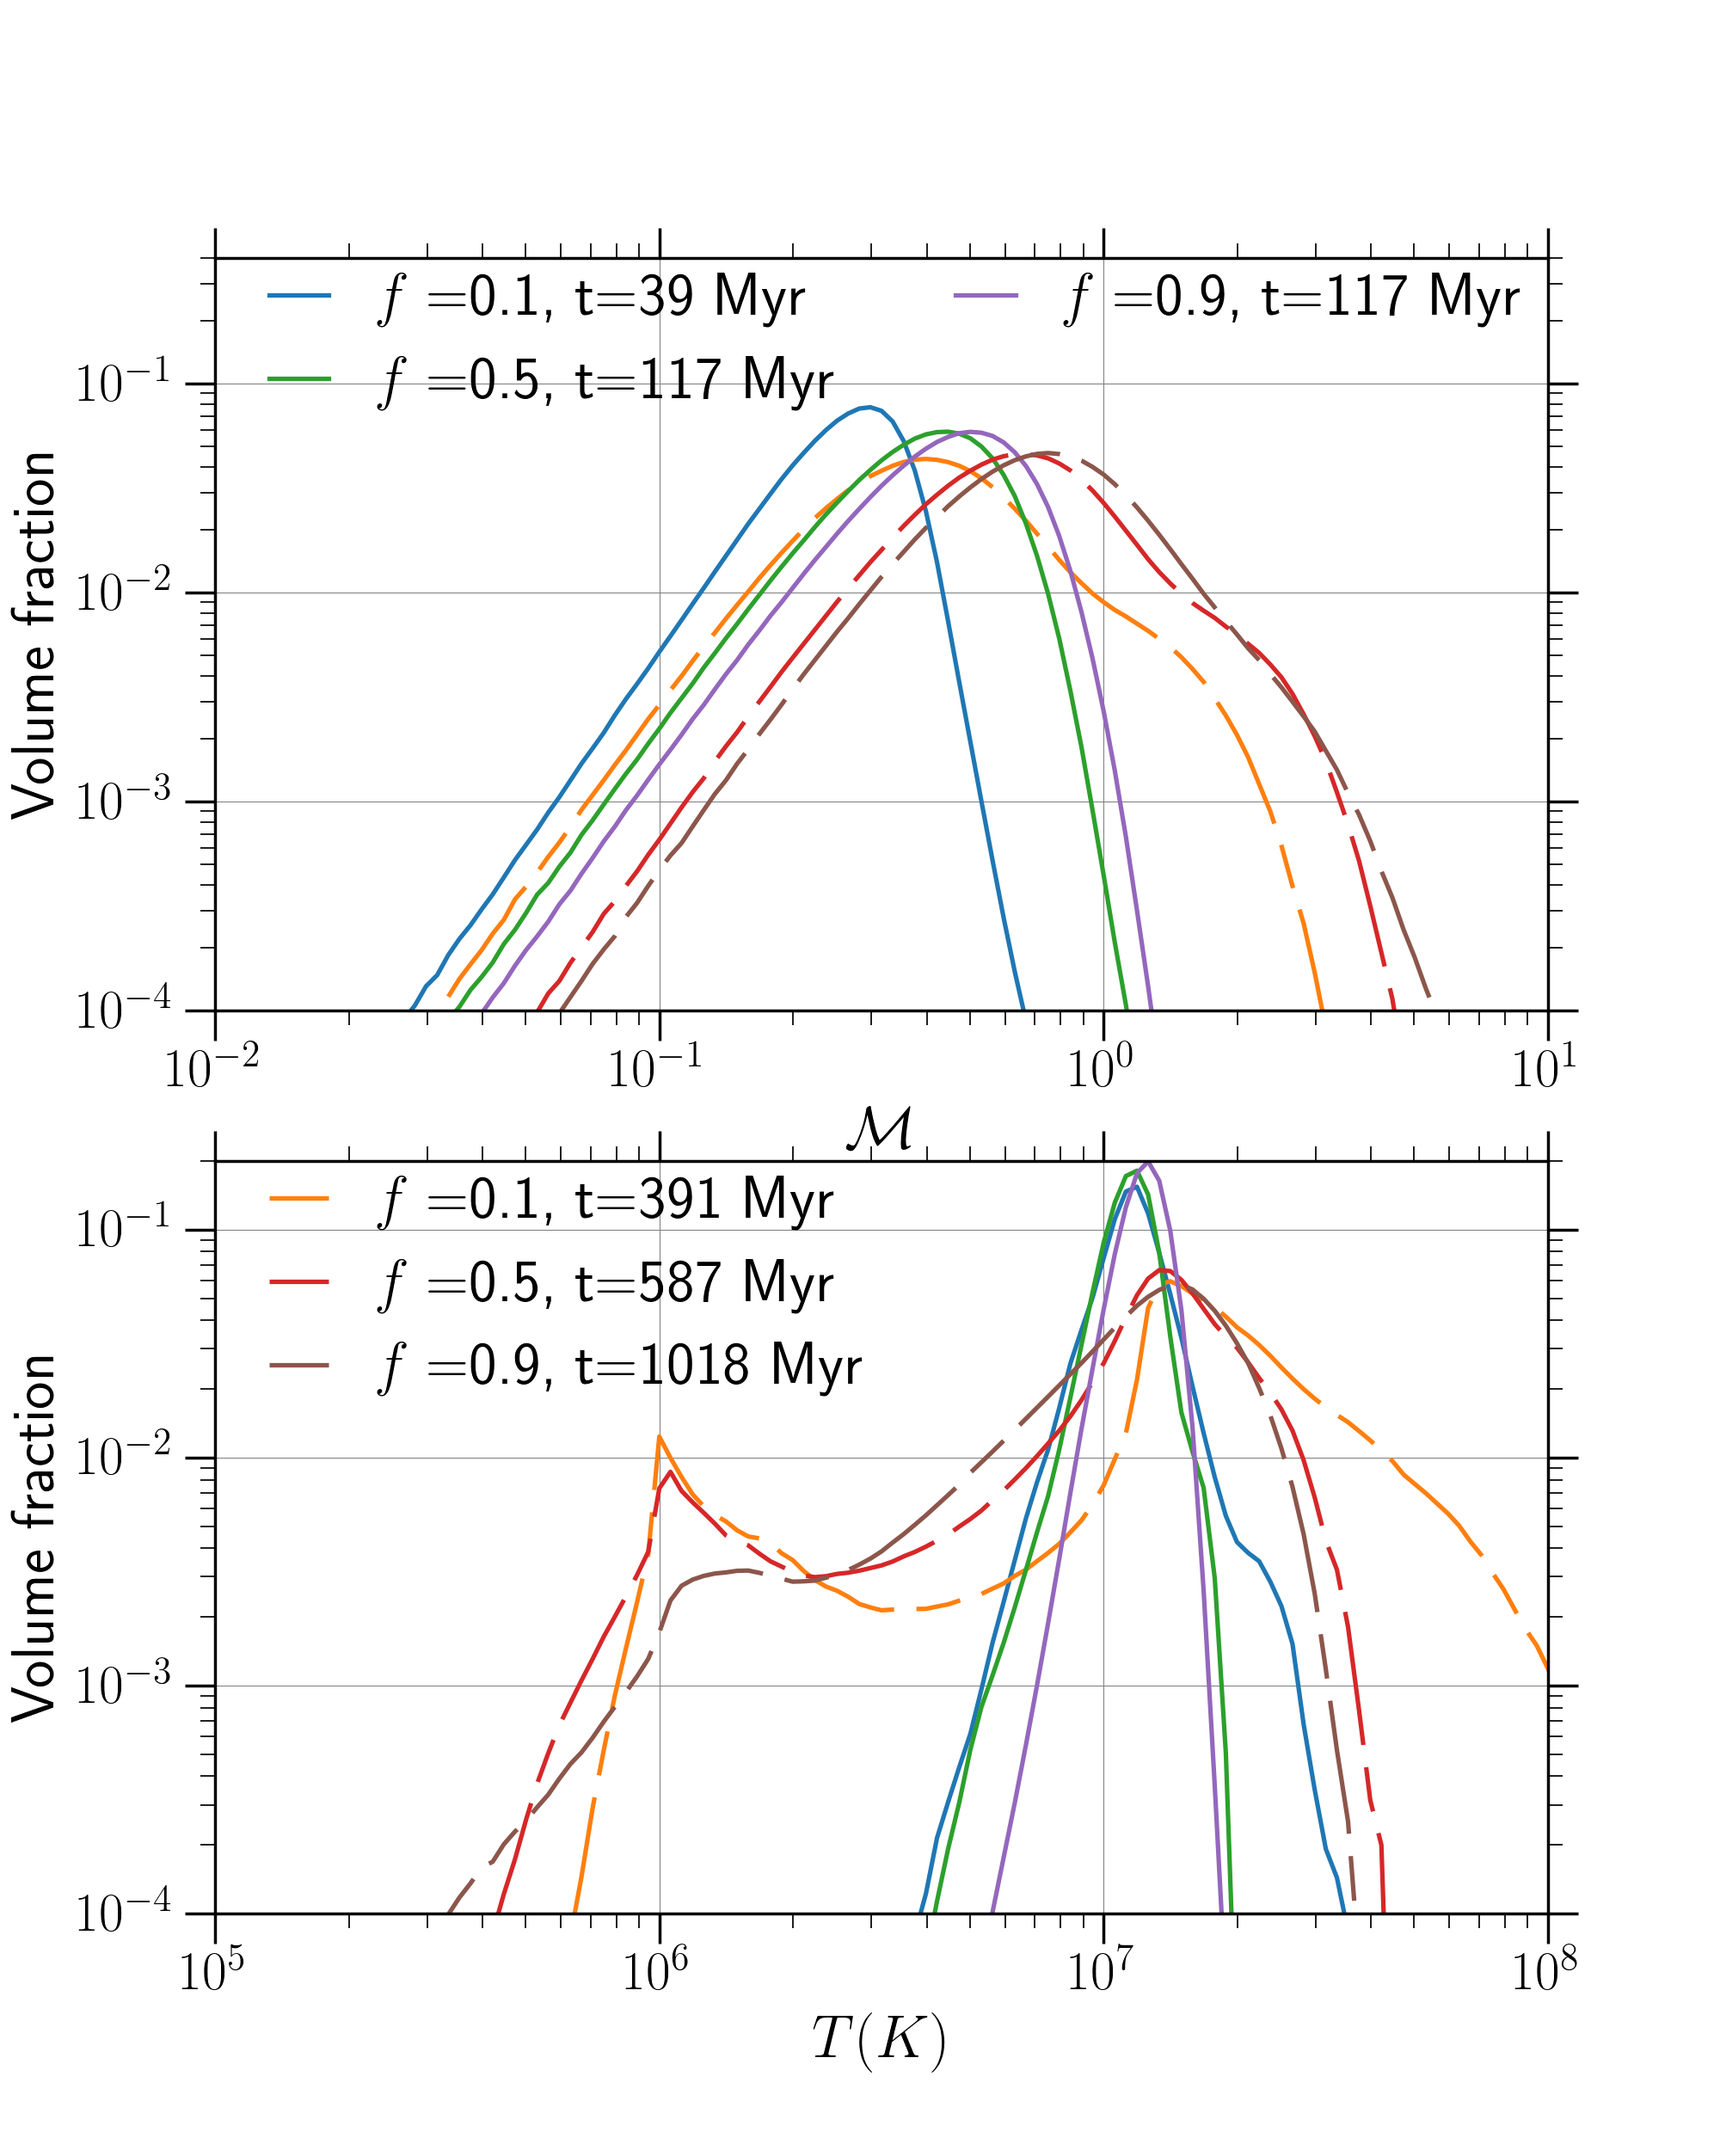
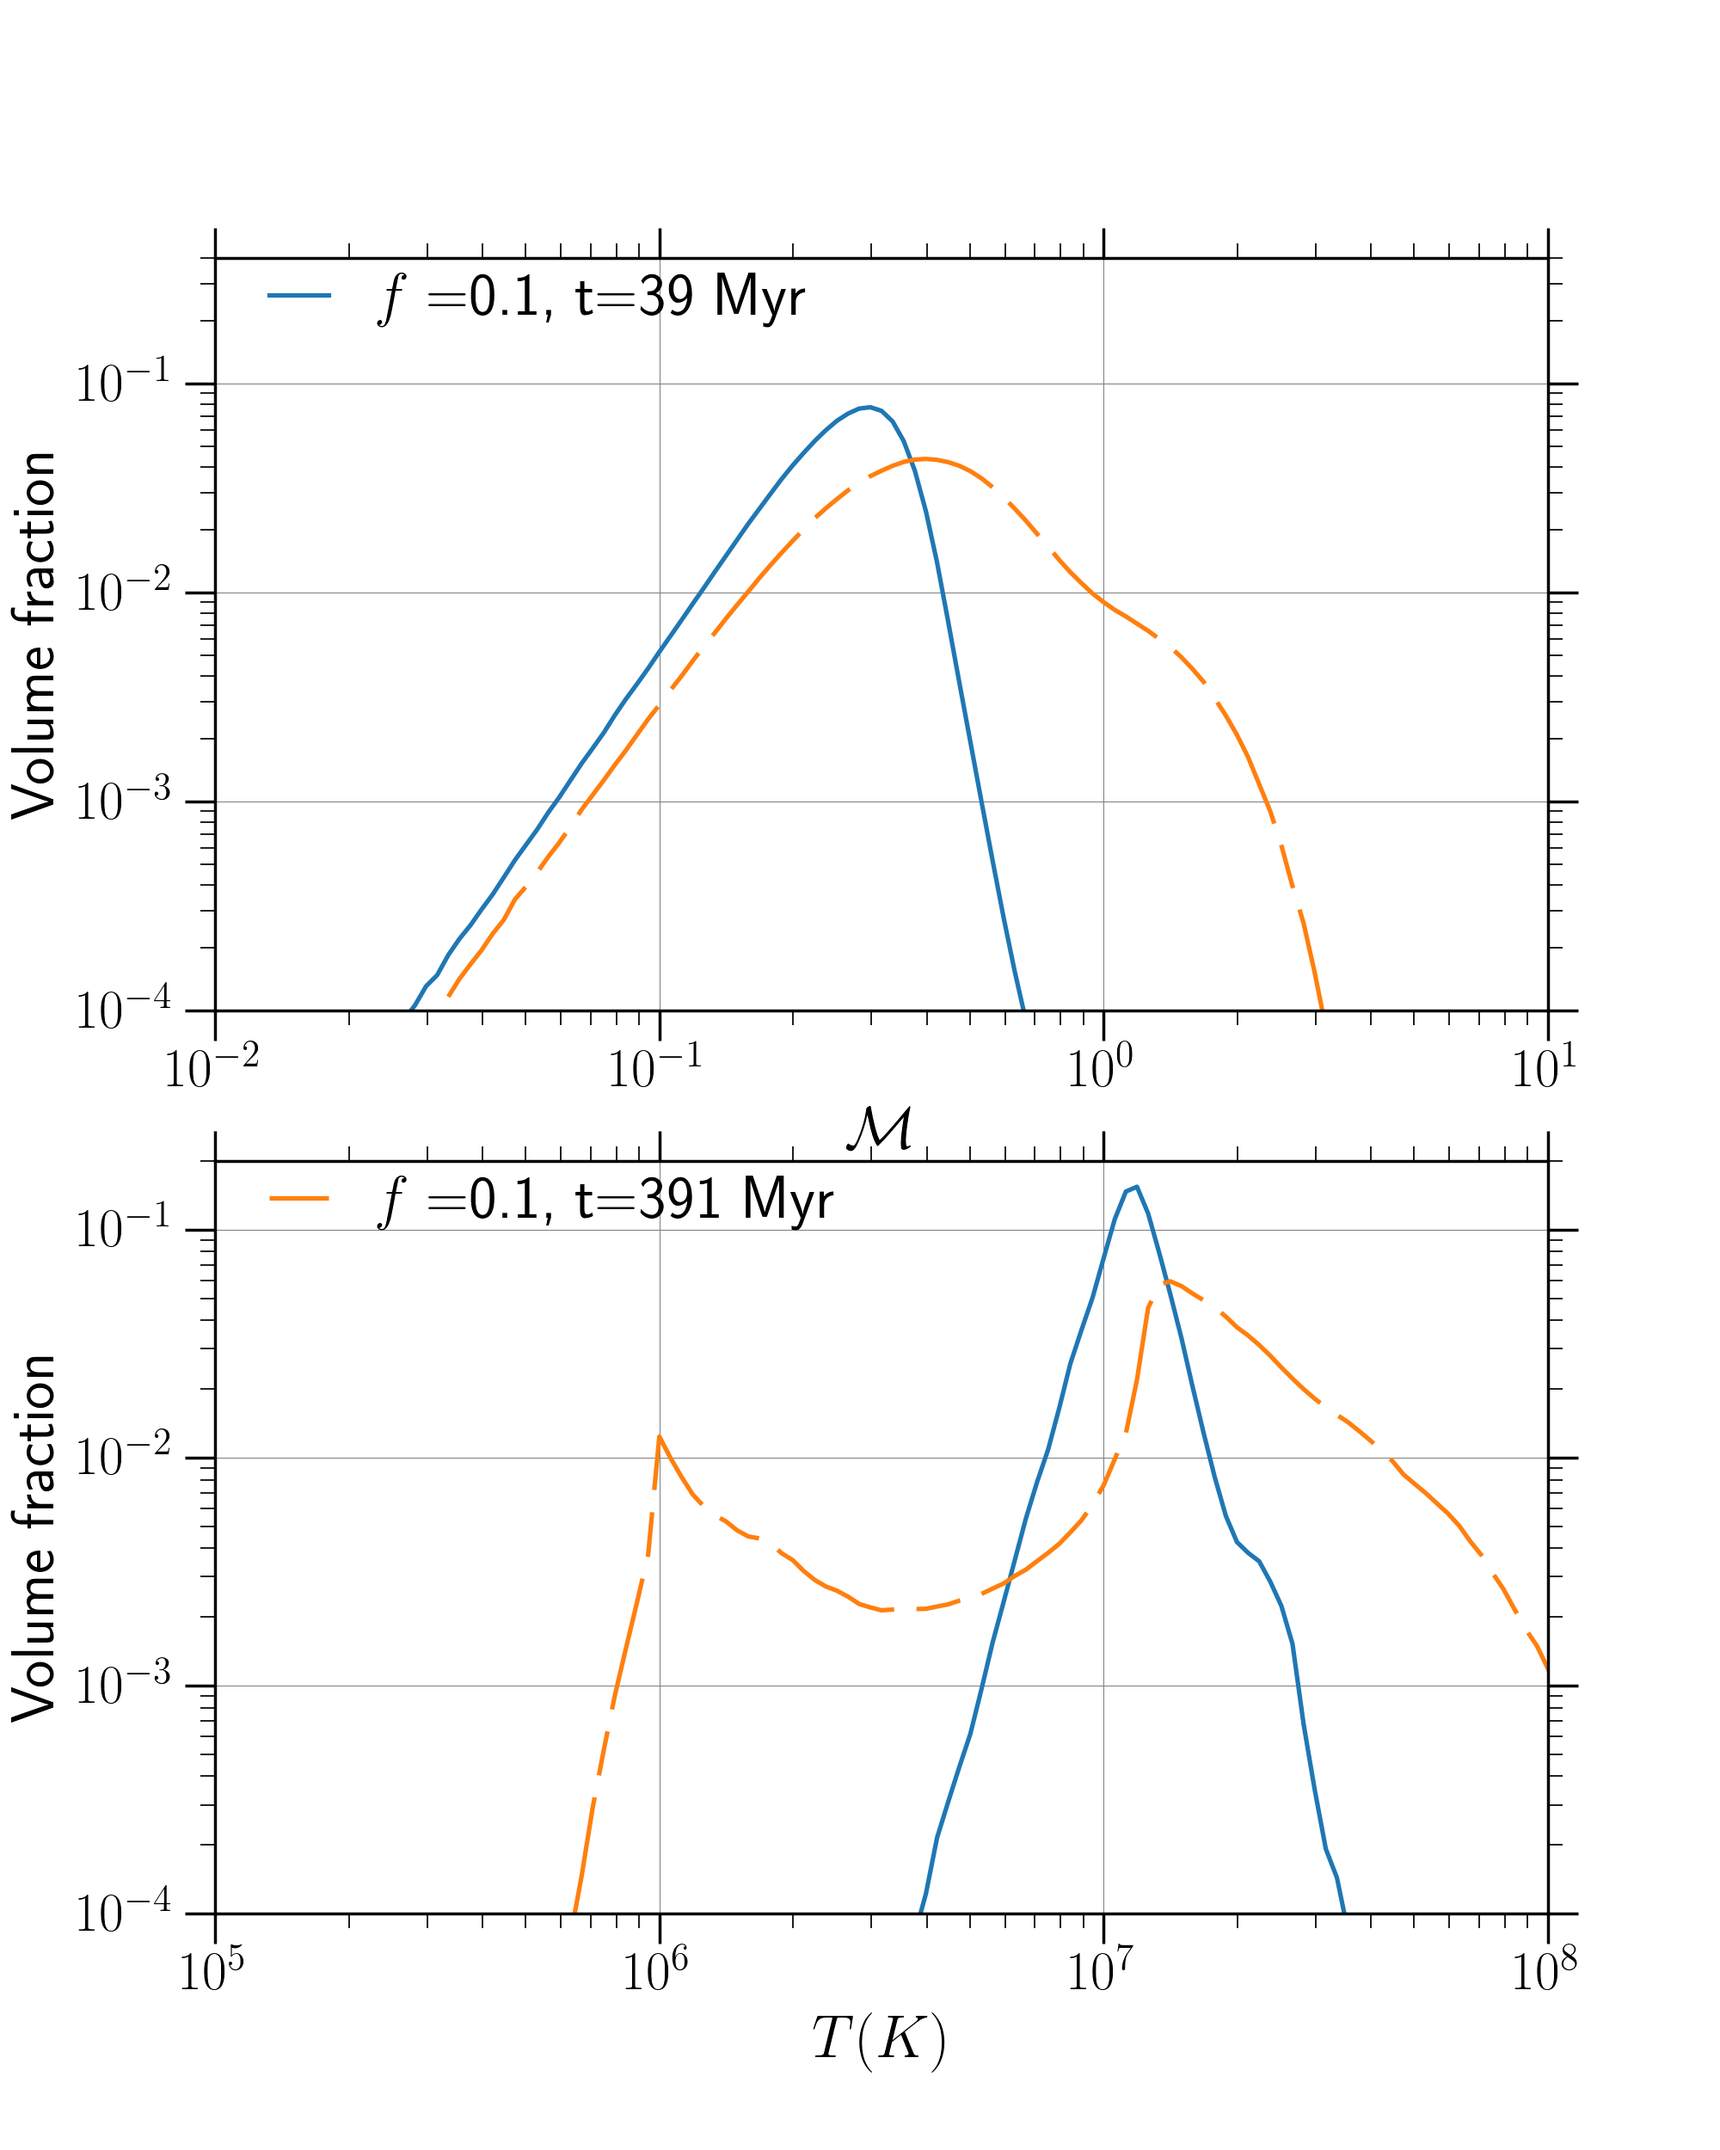
Edited BDh plots

diff --git a/mach_temp_dist/mach-temp-dist-BDh.py b/mach_temp_dist/mach-temp-dist-BDh.py
@@ -23,19 +23,17 @@ UNIT_VELOCITY= (1.e8)
 UNIT_LENGTH =  (CONST_pc*40.e3)
 UNIT_TIME=UNIT_LENGTH/UNIT_VELOCITY/(3.15e13)
 nx,ny,nz=256,256,256
-wdir=('F1e-1/', 'F5e-1/', 'F9e-1/')
+wdir='F1e-1/'#, 'F5e-1/', 'F9e-1/')
 
-labels=('0.1', '0.5', '0.9')
+labels='0.1'#, '0.5', '0.9')
 
-num_plots=3
+num_plots=1
 
 distM = [None] * (num_plots)
 distT = [None] * (num_plots)
 
-t_mp=(10., 15., 26)
-
-t_turb=(1., 3., 3.)
-
+t_mp=10.
+t_turb=1.
 step_size=np.array((0.2))#, 0.2, 0.2))
 
 #Initialise the figure
@@ -44,20 +42,20 @@ fig.set_size_inches(8, 10.)
 
 for i in xrange(num_plots):
 	j=i
-	filedir='/mnt/lustre/ug4/ugrajs/cooling/turb_perturb/DBh2e-1/'+wdir[i]
-	file=filedir+'mach'+str(int(t_turb[i]/step_size+0.1)).rjust(4,'0')+'.txt'
+	filedir='/mnt/lustre/ug4/ugrajs/cooling/turb_perturb/DBh2e-1/'+wdir
+	file=filedir+'mach'+str(int(t_turb/step_size+0.1)).rjust(4,'0')+'.txt'
 	data = np.loadtxt(file, skiprows=1, usecols=(0,1))
-	distM[j], =ax1.plot(data[:,0], data[:,1]/(float(nx*ny*nz)), label='$f=$'+labels[i]+', t='+str(int(t_turb[i]*UNIT_TIME))+' Myr')
-	file=filedir+'mach'+str(int(t_mp[i]/step_size+0.1)).rjust(4,'0')+'.txt'
+	distM[j], =ax1.plot(data[:,0], data[:,1]/(float(nx*ny*nz)), label='$f=$'+labels+', t='+str(int(t_turb*UNIT_TIME))+' Myr')
+	file=filedir+'mach'+str(int(t_mp/step_size+0.1)).rjust(4,'0')+'.txt'
 	data = np.loadtxt(file, skiprows=1, usecols=(0,1))
 	ax1.plot(data[:,0], data[:,1]/(float(nx*ny*nz)), dashes=[30, 5, 10, 5], )
 
-	file=filedir+'temp'+str(int(t_turb[i]/step_size+0.1)).rjust(4,'0')+'.txt'
+	file=filedir+'temp'+str(int(t_turb/step_size+0.1)).rjust(4,'0')+'.txt'
 	data = np.loadtxt(file, skiprows=1, usecols=(0,1))
 	ax2.plot(data[:,0], data[:,1]/(float(nx*ny*nz)))
-	file=filedir+'temp'+str(int(t_mp[i]/step_size+0.1)).rjust(4,'0')+'.txt'
+	file=filedir+'temp'+str(int(t_mp/step_size+0.1)).rjust(4,'0')+'.txt'
 	data = np.loadtxt(file, skiprows=1, usecols=(0,1))
-	distT[j], =ax2.plot(data[:,0], data[:,1]/(float(nx*ny*nz)), dashes=[30, 5, 10, 5], label='$f=$'+labels[i]+', t='+str(int(t_mp[i]*UNIT_TIME))+' Myr')
+	distT[j], =ax2.plot(data[:,0], data[:,1]/(float(nx*ny*nz)), dashes=[30, 5, 10, 5], label='$f=$'+labels+', t='+str(int(t_mp*UNIT_TIME))+' Myr')
 
 ax1.set_xscale('log')
 ax1.set_yscale('log')
